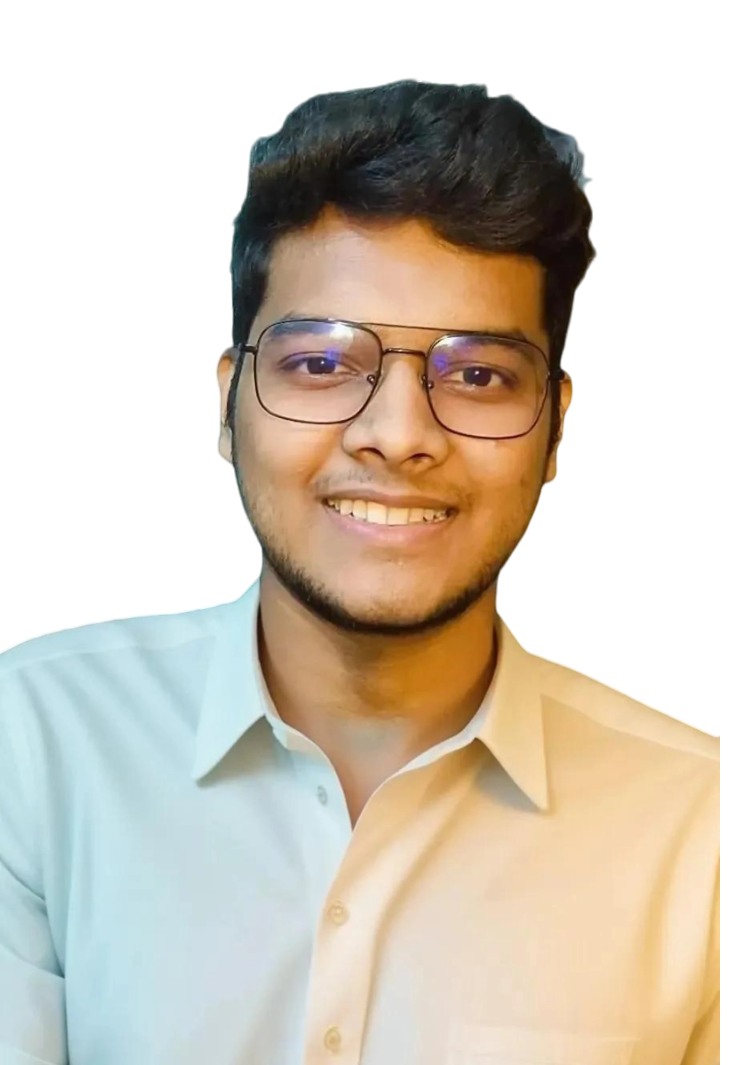
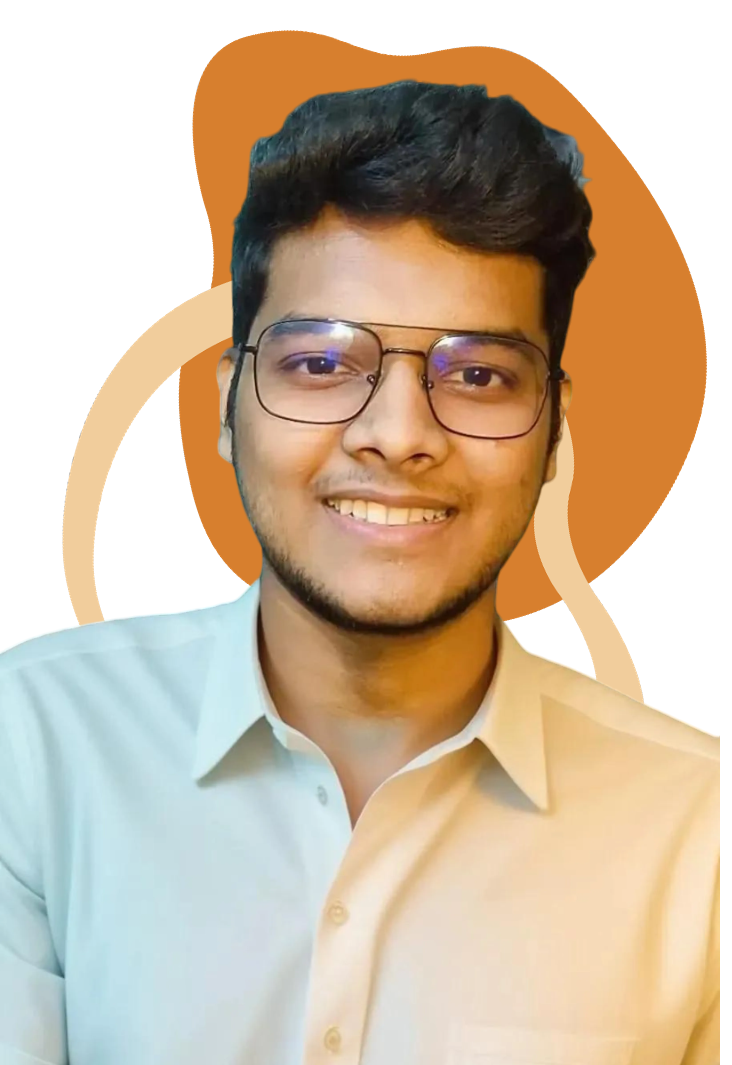
yes

Changed region(s): [[0.0601, 0.031, 0.9918, 0.6507]]

diff --git a/index.html b/index.html
@@ -210,7 +210,7 @@
 								<div class="row">
 									<div class="col-sm-6 col-md-5">
 									  <div class="about-img">
-										<img src="images/about-me.png" class="img-fluid rounded b-shadow-a" alt="">
+										<img src="images/about-me2 (2).png" class="img-fluid rounded b-shadow-a" alt="">
 									  </div>
 									</div>
 									<!-- Details next to profile image -->
